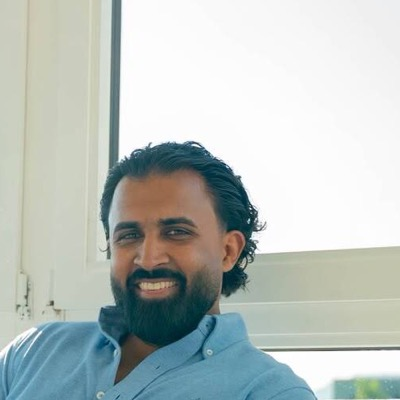
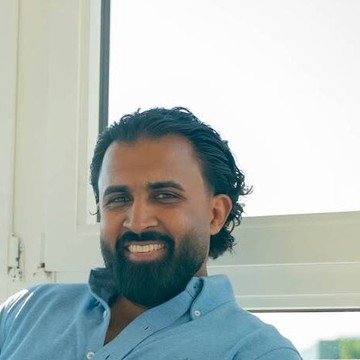
GastSpeaker: recrop Arafat's photo so he sits centered
Instead of CSS zoom/object-position hacks around a badly-framed
portrait, recrop the source file itself:

  arafat-alves.jpg          855x1067 -> 700x875  (4:5)
     Arafat's face at ~50% width, upper-third height. Full torso
     and part of leg visible, no more clipped knee.

  arafat-alves-avatar.jpg   855x1067 -> 360x360  (1:1)
     Tight head + shoulders for the small hero chip.

Both crops produced with PIL, quality 90/92. Old CSS overrides
(scale(1.18), objectPosition: '30% 40%') removed — Arafat's card
now uses the same object-cover object-top as Tolga and Noah.
Subtitle 'Über 1.300.000 Social Media Abonnenten.' kept.

diff --git a/src/components/sections/GastSpeakerSection.tsx b/src/components/sections/GastSpeakerSection.tsx
@@ -23,12 +23,6 @@ const SPEAKERS = [
     claim: { serif: "", display: "Spezialist für digitales Marketing" },
     image: "/figma/speakers/arafat-alves.jpg",
     alt: "Arafat Alves — Spezialist für digitales Marketing",
-    // Arafat is framed sitting low-left in the source photo, so the
-    // default object-top crop pushes him to the bottom of the card and
-    // clips his knee. Shift the focal point up and left, and zoom the
-    // image so his upper body reads as the subject.
-    imagePosition: "30% 40%",
-    imageScale: 1.18,
     subtitle: "Über 1.300.000 Social Media Abonnenten.",
   },
 ] as const;
@@ -82,13 +76,7 @@ export default function GastSpeakerSection() {
                       alt={s.alt}
                       fill
                       sizes="(max-width: 640px) 90vw, (max-width: 1024px) 45vw, 360px"
-                      className="object-cover"
-                      style={{
-                        objectPosition:
-                          "imagePosition" in s ? s.imagePosition : "top",
-                        transform:
-                          "imageScale" in s ? `scale(${s.imageScale})` : undefined,
-                      }}
+                      className="object-cover object-top"
                     />
                   </div>
                 </div>
